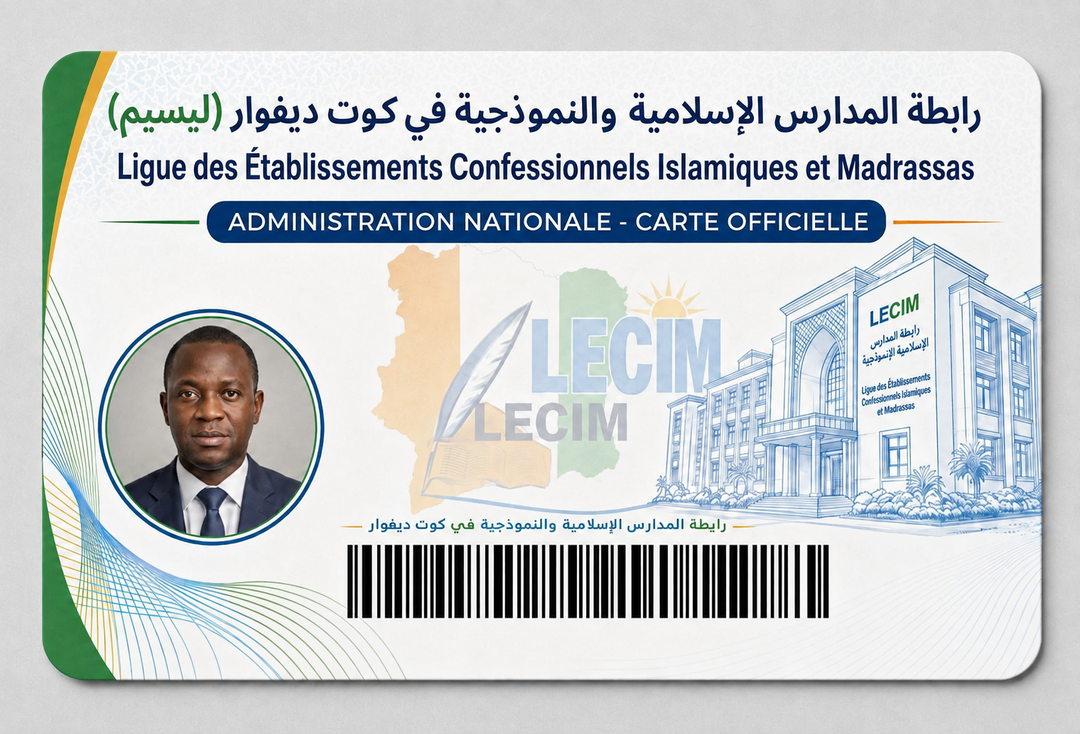
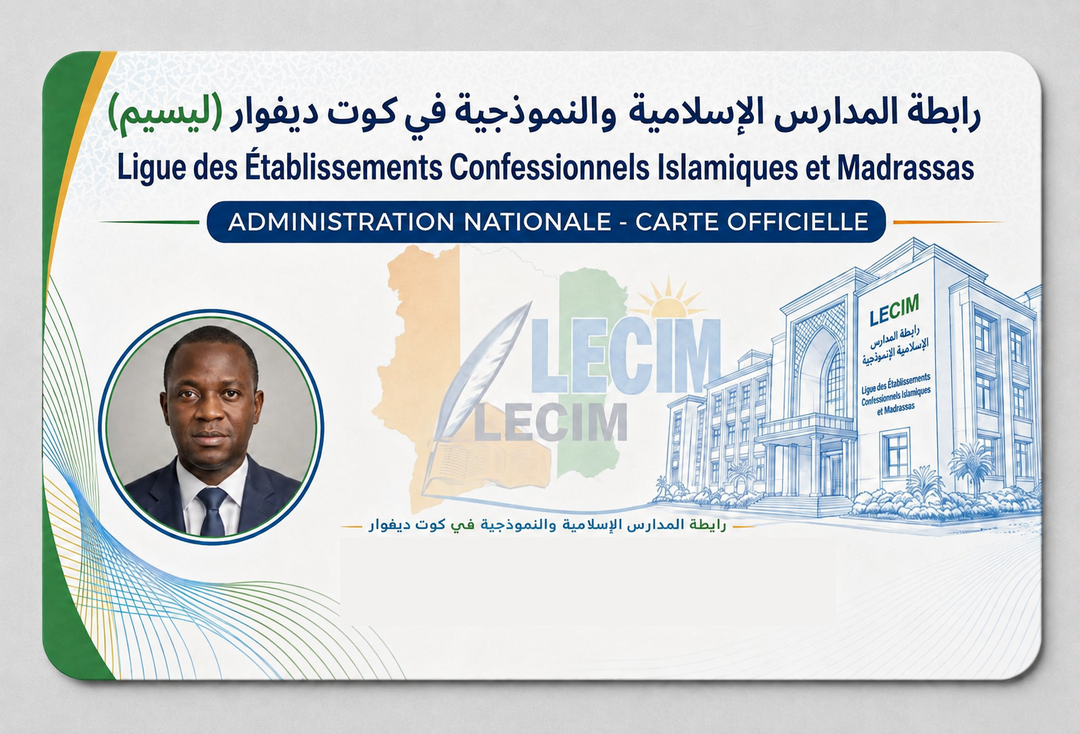
Corriger le rendu visuel de la carte de membre (retours utilisateur)
- Les fonds blancs opaques derriere le texte (nom/fonction, numero/validite)
  sont remplaces par des fonds semi-transparents a coins arrondis, qui se
  fondent avec la carte au lieu de ressembler a des autocollants
- Le code-barres decoratif du modele approuve (non fonctionnel, redondant
  avec le QR de verification) est efface de l'image de fond

Changed region(s): [[0.3056, 0.7193, 0.7944, 0.8692]]

diff --git a/backend/app/card_pdf.py b/backend/app/card_pdf.py
@@ -101,7 +101,8 @@ def _add_recto(pdf: FPDF, carte, photo_bytes: bytes | None) -> None:
 
     info_x, info_y, info_w = 25.85, 23.5, 37.66
     pdf.set_fill_color(255, 255, 255)
-    pdf.rect(info_x - 1, info_y - 1, info_w + 1, 13.5, style="F")
+    with pdf.local_context(fill_opacity=0.68):
+        pdf.rect(info_x - 1.5, info_y - 1.5, info_w + 3, 15.5, style="F", round_corners=True, corner_radius=2)
     pdf.set_text_color(*GREEN)
     pdf.set_font("Helvetica", "", 5.8)
     pdf.set_xy(info_x, info_y)
@@ -132,11 +133,12 @@ def _add_recto(pdf: FPDF, carte, photo_bytes: bytes | None) -> None:
     qr_x = CARD_W - 3.5 - qr_size
     qr_y = CARD_H - 3.5 - qr_size
     pdf.set_fill_color(255, 255, 255)
-    pdf.rect(qr_x - 0.8, qr_y - 0.8, qr_size + 1.6, qr_size + 1.6, style="F")
+    pdf.rect(qr_x - 0.8, qr_y - 0.8, qr_size + 1.6, qr_size + 1.6, style="F", round_corners=True, corner_radius=1)
     pdf.image(qr_img.get_image() if hasattr(qr_img, "get_image") else qr_img, x=qr_x, y=qr_y, w=qr_size, h=qr_size)
 
     pdf.set_fill_color(255, 255, 255)
-    pdf.rect(3.5, CARD_H - 9, 30, 6, style="F")
+    with pdf.local_context(fill_opacity=0.68):
+        pdf.rect(2.8, CARD_H - 9.7, 32, 7.2, style="F", round_corners=True, corner_radius=1.5)
     pdf.set_font("Helvetica", "B", 6.2)
     pdf.set_text_color(*GREEN)
     pdf.set_xy(3.5, CARD_H - 9)
